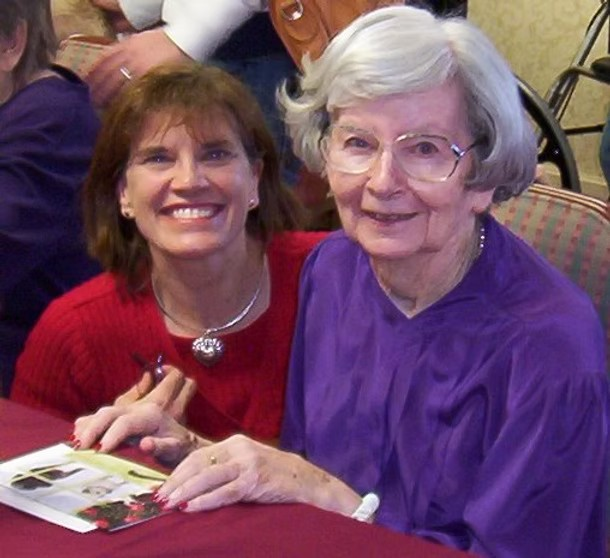
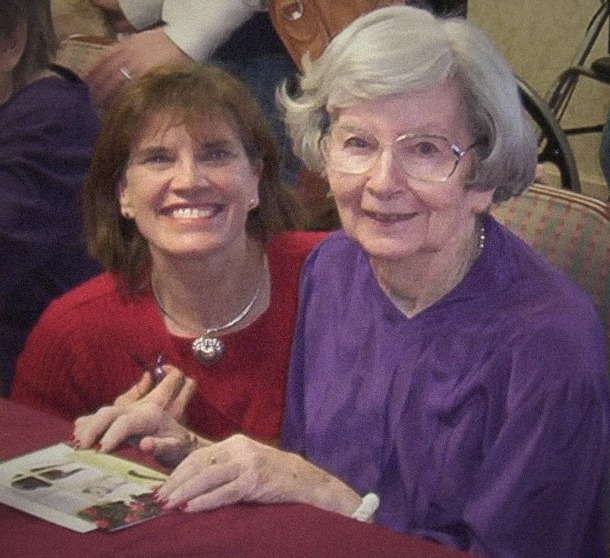
Our Story: vintage early-2000s treatment on the Angela and Aunt Grace photo (warm fade, grain, vignette) with a print-style frame; original kept alongside
Claude-Session: https://claude.ai/code/session_016j5r3FfxgFNpWKhT459GkM

diff --git a/about.html b/about.html
@@ -18,7 +18,7 @@
   <meta property="og:image" content="https://clayborneo.github.io/cwg-site-draft-v2/assets/img/hero/slide3d.jpg">
   <meta name="twitter:card" content="summary_large_image">
   <link rel="icon" type="image/png" href="assets/img/brand-v6/badge-karen-64.png">
-  <link rel="stylesheet" href="assets/css/style.css?v=7">
+  <link rel="stylesheet" href="assets/css/style.css?v=8">
 </head>
 <body>
 
@@ -74,9 +74,10 @@
     <h2 style="font-size: 2rem; margin-bottom: 24px;">A family experience that became a calling.</h2>
     <p style="font-size: 1.05rem; color: var(--text-light); margin-bottom: 18px;">In 2001, Angela Thomas's family found themselves caring for Aunt Grace, who was living with Alzheimer's Disease. Through years of joys and challenges, with many lessons learned the hard way, Angela realized that even her nursing background didn't make it easy.</p>
     <p style="font-size: 1.05rem; color: var(--text-light); margin-bottom: 18px;">In 2006, Caring with Grace was founded so that other families wouldn't have to navigate the same road alone. Twenty years later, the company carries Grace's name and Angela's mission forward, guiding families through the complexities of care with expertise, compassion, and continuity.</p>
-    <!-- Photo from Melissa's Drive folder "Photos of Aunt Grace and Angela" (the current-site photo). -->
+    <!-- Photo from Melissa's Drive folder "Photos of Aunt Grace and Angela" (the current-site photo, c. 2002).
+         Vintage treatment (warm fade, lifted blacks, grain, vignette) applied per Clay; untouched copy in assets/img/angela-grace-original.jpg. -->
     <figure style="max-width: 420px; margin: 36px auto 8px; text-align: center;">
-      <img src="assets/img/angela-grace.jpg" alt="Angela Thomas with Aunt Grace" style="width: 100%; height: auto; border-radius: 12px; box-shadow: 0 6px 24px rgba(30,42,68,0.14);">
+      <img src="assets/img/angela-grace.jpg" alt="Angela Thomas with Aunt Grace" class="vintage-print">
       <figcaption style="margin-top: 12px; color: var(--text-light); font-size: 0.9rem; font-style: italic;">Angela and Aunt Grace</figcaption>
     </figure>
     <div class="framing-callout" style="margin-top: 32px;">

diff --git a/assets/css/style.css b/assets/css/style.css
@@ -1476,3 +1476,12 @@ a.nav-drop-btn { text-decoration: none; }
 .site-logo-text .grace { color: var(--primary); }
 @media (max-width: 1260px) { .site-logo-text { font-size: 1.75rem; } }
 @media (max-width: 1080px) { .site-logo-text { font-size: 1.5rem; } }
+
+/* Angela + Aunt Grace: early-2000s print feel */
+.vintage-print {
+  width: 100%; height: auto; display: block;
+  border: 12px solid #fffdf8; border-bottom-width: 26px;
+  border-radius: 2px;
+  box-shadow: 0 10px 28px rgba(30,42,68,0.18), 0 1px 2px rgba(30,42,68,0.12);
+  transform: rotate(-1.5deg);
+}

diff --git a/404.html b/404.html
@@ -9,7 +9,7 @@
   <link href="https://fonts.googleapis.com/css2?family=DM+Serif+Display:ital@0;1&family=Alex+Brush&family=Great+Vibes&family=DM+Sans:ital,wght@0,400;0,500;0,600;0,700;1,400&display=swap" rel="stylesheet">
     <meta name="robots" content="noindex">  <!-- draft only: remove at launch -->
                 <link rel="icon" type="image/png" href="assets/img/brand-v6/badge-karen-64.png">
-  <link rel="stylesheet" href="assets/css/style.css?v=7">
+  <link rel="stylesheet" href="assets/css/style.css?v=8">
 </head>
 <body>
 

diff --git a/aging-life-care.html b/aging-life-care.html
@@ -18,7 +18,7 @@
   <meta property="og:image" content="https://clayborneo.github.io/cwg-site-draft-v2/assets/img/hero/slide3d.jpg">
   <meta name="twitter:card" content="summary_large_image">
   <link rel="icon" type="image/png" href="assets/img/brand-v6/badge-karen-64.png">
-  <link rel="stylesheet" href="assets/css/style.css?v=7">
+  <link rel="stylesheet" href="assets/css/style.css?v=8">
 </head>
 <body>
 

diff --git a/care-management-families.html b/care-management-families.html
@@ -18,7 +18,7 @@
   <meta property="og:image" content="https://clayborneo.github.io/cwg-site-draft-v2/assets/img/hero/slide3d.jpg">
   <meta name="twitter:card" content="summary_large_image">
   <link rel="icon" type="image/png" href="assets/img/brand-v6/badge-karen-64.png">
-  <link rel="stylesheet" href="assets/css/style.css?v=7">
+  <link rel="stylesheet" href="assets/css/style.css?v=8">
 </head>
 <body>
 

diff --git a/caring-on-call.html b/caring-on-call.html
@@ -18,7 +18,7 @@
   <meta property="og:image" content="https://clayborneo.github.io/cwg-site-draft-v2/assets/img/hero/slide4c.jpg">
   <meta name="twitter:card" content="summary_large_image">
   <link rel="icon" type="image/png" href="assets/img/brand-v6/badge-karen-64.png">
-  <link rel="stylesheet" href="assets/css/style.css?v=7">
+  <link rel="stylesheet" href="assets/css/style.css?v=8">
 </head>
 <body>
 

diff --git a/contact.html b/contact.html
@@ -18,7 +18,7 @@
   <meta property="og:image" content="https://clayborneo.github.io/cwg-site-draft-v2/assets/img/hero/slide3d.jpg">
   <meta name="twitter:card" content="summary_large_image">
   <link rel="icon" type="image/png" href="assets/img/brand-v6/badge-karen-64.png">
-  <link rel="stylesheet" href="assets/css/style.css?v=7">
+  <link rel="stylesheet" href="assets/css/style.css?v=8">
 </head>
 <body>
 

diff --git a/for-professionals.html b/for-professionals.html
@@ -18,7 +18,7 @@
   <meta property="og:image" content="https://clayborneo.github.io/cwg-site-draft-v2/assets/img/hero/slide4c.jpg">
   <meta name="twitter:card" content="summary_large_image">
   <link rel="icon" type="image/png" href="assets/img/brand-v6/badge-karen-64.png">
-  <link rel="stylesheet" href="assets/css/style.css?v=7">
+  <link rel="stylesheet" href="assets/css/style.css?v=8">
 </head>
 <body>
 

diff --git a/index.html b/index.html
@@ -18,7 +18,7 @@
   <meta property="og:image" content="https://clayborneo.github.io/cwg-site-draft-v2/assets/img/hero/slide4c.jpg">
   <meta name="twitter:card" content="summary_large_image">
   <link rel="icon" type="image/png" href="assets/img/brand-v6/badge-karen-64.png">
-  <link rel="stylesheet" href="assets/css/style.css?v=7">
+  <link rel="stylesheet" href="assets/css/style.css?v=8">
 </head>
 <body>
 

diff --git a/resources.html b/resources.html
@@ -18,7 +18,7 @@
   <meta property="og:image" content="https://clayborneo.github.io/cwg-site-draft-v2/assets/img/hero/slide3d.jpg">
   <meta name="twitter:card" content="summary_large_image">
   <link rel="icon" type="image/png" href="assets/img/brand-v6/badge-karen-64.png">
-  <link rel="stylesheet" href="assets/css/style.css?v=7">
+  <link rel="stylesheet" href="assets/css/style.css?v=8">
 </head>
 <body>
 

diff --git a/team.html b/team.html
@@ -18,7 +18,7 @@
   <meta property="og:image" content="https://clayborneo.github.io/cwg-site-draft-v2/assets/img/hero/slide3d.jpg">
   <meta name="twitter:card" content="summary_large_image">
   <link rel="icon" type="image/png" href="assets/img/brand-v6/badge-karen-64.png">
-  <link rel="stylesheet" href="assets/css/style.css?v=7">
+  <link rel="stylesheet" href="assets/css/style.css?v=8">
 </head>
 <body>
 

diff --git a/thoughtful-engagement.html b/thoughtful-engagement.html
@@ -18,7 +18,7 @@
   <meta property="og:image" content="https://clayborneo.github.io/cwg-site-draft-v2/assets/img/hero/slide4d.jpg">
   <meta name="twitter:card" content="summary_large_image">
   <link rel="icon" type="image/png" href="assets/img/brand-v6/badge-karen-64.png">
-  <link rel="stylesheet" href="assets/css/style.css?v=7">
+  <link rel="stylesheet" href="assets/css/style.css?v=8">
 </head>
 <body>
 
